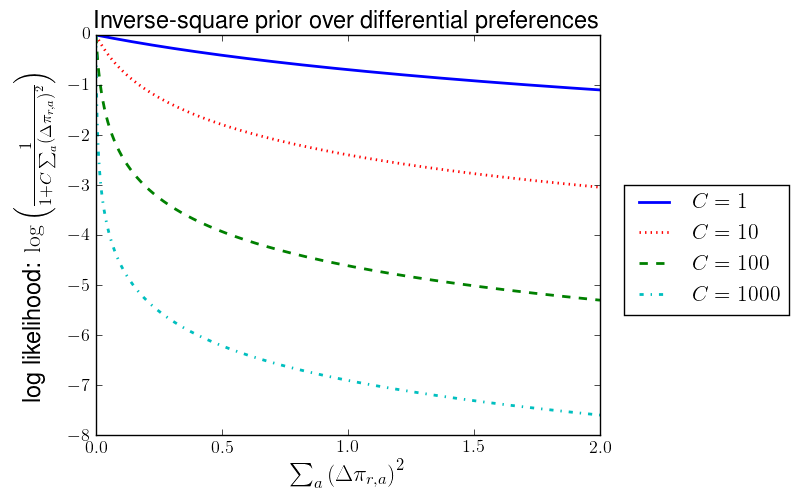
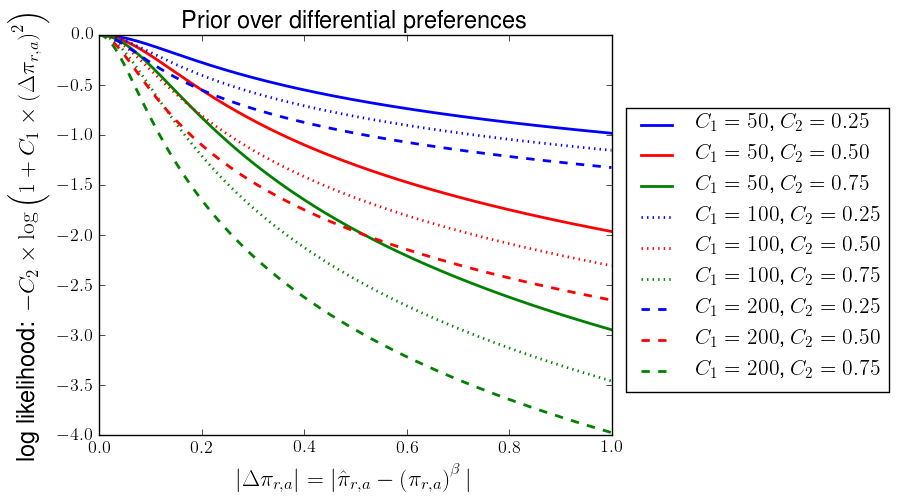
Implemented new diffprefs prior as product of inverse quadratics

diff --git a/phydmslib/diffpref.py b/phydmslib/diffpref.py
@@ -119,40 +119,33 @@ class InvQuadPrefsPrior(object):
 
     This object is instantiated like this::
 
-        prefsprior = InvQuadPrefsPrior(peakprefs, concentration)
+        prefsprior = InvQuadPrefsPrior(peakprefs, cparams)
 
     where *peakprefs* is a dictionary of the preferences that specifies
-    the peak of the prior, and *concentration* is a number > 1 that
-    specifies how "concentrated" the prior is (larger value means
-    more concentrated). 
+    the peak of the prior, and *cparams* is the tuple
+    *(c1, c2)* of numbers >= 0
+    that specify how "concentrated" the prior is (larger value means
+    more concentrated around *peakprefs*). 
     
     *tol* is the tolerance
     for having preferences not sum to one.
 
     The prior is defined as follows. Given some new vector with elements
     :math:`\hat{\pi}_{r,a}` and initial (*peakprefs*) values
-    of :math:`\pi_{r,a}`, the prior probability is
-    :math:`\Pr\left(\left\{\hat{\pi}_{r,a}\\right\} \mid \left\{\pi_{r,a}\\right\}\\right) = \log\left(\\frac{1}{1 + C \\times \sum_a \left(\hat{\pi}_{r,a} - \pi_{r,a}\\right)^2}\\right)`.
+    of :math:`\pi_{r,a}`, the log prior probability is
+    :math:`\log\left[\Pr\left(\left\{\hat{\pi}_{r,a}\\right\} \mid \left\{\pi_{r,a}\\right\}, \\beta\\right)\\right] = - C_2 \sum_a \log\left(1 + C_1 \\times \left(\hat{\pi}_{r,a} - \left(\pi_{r,a}\\right)^{\\beta}\\right)^2\\right)`.
 
     To return the log prior probability of any given set of preferences
     contained in a dictionary *prefs*, simply use::
 
         prior = prefsprior.LogPrior(prefs)
 
-    Here is an example:
-
-    >>> peakprefs = {'A':0.4, 'C':0.3, 'G':0.3, 'T':0.0}
-    >>> concentration = 100
-    >>> prefsprior = InvQuadPrefsPrior(peakprefs, concentration)
-    >>> prefs1 = {'A':0.39, 'C':0.3, 'G':0.3, 'T':0.01}
-    >>> prefs2 = {'A':0.09, 'C':0.3, 'G':0.3, 'T':0.31}
-    >>> prefsprior.LogPrior(prefs1) > prefsprior.LogPrior(prefs2)
-    True
     """
-    def __init__(self, peakprefs, concentration, tol=1e-6):
+    def __init__(self, peakprefs, cparams, tol=1e-6):
         """Initialize object."""
-        assert concentration >= 0, "concentration should be >= 0"
-        self.concentration = concentration
+        (self.c1, self.c2) = cparams
+        assert self.c1 >= 0, "c1 must be >= 0"
+        assert self.c2 >= 0, "c2 must be >= 0"
         assert tol < 1e4, "Unreasonably large tol: %s" % tol
         self.tol = tol
         assert abs(1.0 - sum(peakprefs.values())) < tol, "peakprefs do not sum to one:\n%s" % str(peakprefs)
@@ -166,7 +159,10 @@ class InvQuadPrefsPrior(object):
         assert abs(1.0 - sum(prefs.values())) < self.tol, "prefs do not sum to one:\n%s" % str(prefs)
         assert all([pi >= 0 for pi in prefs.values()]), "prefs not all >= 0: %s" % str(prefs)
         prefsvec = numpy.array([prefs[char] for char in self.chars])
-        return math.log(1.0 / (1.0 + self.concentration * sum((self.priorvec - prefsvec)**2)))
+        logp = 0.0
+        for (pi1, pi2) in zip(self.priorvec, prefsvec):
+            logp -= self.c2 * math.log(1.0 + self.c1 * (pi1 - pi2)**2)
+        return logp
 
 
 class DirichletPrefsPrior(object):
@@ -261,7 +257,9 @@ def OptimizePrefs(tl, prefs, site, prior, concentration, minvalue=1e-4, noprior=
 
     *concentration* is how strongly we concentrate the prior.
     Larger values lead to priors more strongly peaked on the initial
-    value of *site*.
+    value of *site*. Should be a value appropriate for passing to 
+    *InvQuadPrefsPrior* (if using *prior* of *invquad*) or to
+    *DirichletPrefsPrior* (if using *prior* of *dirichlet*).
     
     *minvalue* is a lower bound on the minimum valued allowed for the
     peak prior estimate for any preference and for any preference. 
@@ -317,13 +315,13 @@ def OptimizePrefs(tl, prefs, site, prior, concentration, minvalue=1e-4, noprior=
             iprefs = prefstovec.Prefs(vec)
             if any([pi <= 0 for pi in iprefs.values()]) or any([pi >= 1 for pi in iprefs.values()]):
                 raise RuntimeError("iprefs outside support:\n%s\n%s" % (str(iprefs), str(vec)))
-            if noprior:
+            if noprior and nologl:
+                raise ValueError("Can't use noprior and nologl")
+            elif noprior:
                 tl.SetPreferences(iprefs, site)
                 return -(tl.LogLikelihood())
             elif nologl:
                 return -(prefsprior.LogPrior(iprefs))
-            elif noprior and nologl:
-                raise ValueError("Can't use noprior and nologl")
             else:
                 tl.SetPreferences(iprefs, site)
                 return -(tl.LogLikelihood() + prefsprior.LogPrior(iprefs))

diff --git a/phydmslib/parsearguments.py b/phydmslib/parsearguments.py
@@ -61,6 +61,26 @@ def IntGreaterThanZero(n):
     else:
         return n
 
+def FloatGreaterThanEqualToZero(x):
+    """If *x* is a float >= 0, returns it, otherwise raises and error.
+
+    >>> print('%.1f' % FloatGreaterThanEqualToZero('1.5'))
+    1.5
+
+    >>> print('%.1f' % FloatGreaterThanEqualToZero('-1.1'))
+    Traceback (most recent call last):
+       ...
+    ArgumentTypeError: -1.1 not float greater than or equal to zero
+    """
+    try:
+        x = float(x)
+    except:
+        raise argparse.ArgumentTypeError("%r not float greater than or equal to zero" % x)
+    if x >= 0:
+        return x
+    else:
+        raise argparse.ArgumentTypeError("%r not float greater than or equal to zero" % x)
+
 
 def FloatGreaterThanOne(x):
     """If *x* is a string for a float > 1, returns it, otherwise an error."""
@@ -196,8 +216,7 @@ def PhyDMSComprehensiveParser():
     parser.add_argument('--no-diffprefsbysite', dest='nodiffprefsbysite', action='store_true', help="No fitting of differential preferences for ExpCM.")
     parser.set_defaults(omegabysite_fixsyn=False)
     parser.add_argument('--omegabysite_fixsyn', action='store_true', dest='omegabysite_fixsyn', help="See 'phydms' option of the same name.")
-    parser.add_argument('--diffprefsprior', default='invquad', choices=['invquad', 'dirichlet'], help="See 'phydms' option of the same name.")
-    parser.add_argument('--diffprefconc', help="Concentration parameter for fitting differential preferences. If not specified, defaults to default value of same param for 'phydms'.")
+    parser.add_argument('--diffprefconc', help="Parameters determining the concentration of the regularizing prior over the differential preferences. Defaults to value of same param for 'phydms'.")
     parser.set_defaults(randprefs=False)
     parser.add_argument('--randprefs', dest='randprefs', action='store_true', help="Include ExpCM models with randomized preferences.")
     parser.set_defaults(use_existing=False)
@@ -224,14 +243,16 @@ def PhyDMSParser():
     parser.add_argument('--ncpus', default=1, help='Use this many CPUs; -1 means all available.', type=int)
     parser.set_defaults(omegabysite_fixsyn=False)
     parser.add_argument('--omegabysite_fixsyn', dest='omegabysite_fixsyn', action='store_true', help="For '--omegabysite', assign all sites same synonymous rate rather than fitting a different one for each site.")
-    parser.add_argument('--diffprefsprior', default='invquad', choices=['invquad', 'dirichlet'], help="Prior on diff preferences for '--diffprefsbysite'.")
+    # comment out this option as the 'invquad' prior makes vastly more sense than 'dirichlet'
+    parser.set_defaults(diffprefsprior='invquad')
+    #parser.add_argument('--diffprefsprior', default='invquad', choices=['invquad', 'dirichlet'], help="Prior on diff preferences for '--diffprefsbysite'.")
     parser.set_defaults(randprefs=False)
     parser.add_argument('--randprefs', dest='randprefs', action='store_true', help="Randomize preferences among sites for ExpCM.")
     parser.set_defaults(avgprefs=False)
     parser.add_argument('--avgprefs', dest='avgprefs', action='store_true', help="Average preferences across sites for ExpCM.")
     parser.set_defaults(fixbrlen=False)
     parser.add_argument('--fixbrlen', dest='fixbrlen', action='store_true', help="Fix branch lengths to those of initial 'tree'. Consider using '--addrateparameter' too.")
-    parser.add_argument('--diffprefconc', default=100, help="Concentration parameter for '--diffprefsbysite'; larger values favor smaller diff prefs.", type=float)
+    parser.add_argument('--diffprefconc', help="Parameters determining the concentration of the regularizing prior over the differential preferences for '--diffprefsbysite'. Larger values favor smaller diff prefs.", type=FloatGreaterThanEqualToZero, nargs=2, metavar=('C1', 'C2'), default=[100, 0.5])
     parser.set_defaults(addrateparameter=False)
     parser.add_argument('--addrateparameter', dest='addrateparameter', action='store_true', help="Add parameter scaling substitution rate. Only allowed with '--fixbrlen'.")
     parser.set_defaults(fitF3X4=False)

diff --git a/docs/plot_diffprefs_prior.py b/docs/plot_diffprefs_prior.py
@@ -6,14 +6,14 @@ import matplotlib
 matplotlib.use('pdf')
 import matplotlib.pyplot as plt
 
-def F(x, c):
-    return math.log(1.0 / (1.0 + c * x))
+def F(x, c1, c2):
+    return -c2 * math.log(1.0 + c1 * x**2)
 
 plotfile = 'diffprefs_prior_plot.png'
 
 plt.rc('text', usetex=True)
 plt.rc('font', size=13)
-xmax = 2
+xmax = 1
 x = 0
 xs = [x]
 while x <= xmax:
@@ -21,21 +21,22 @@ while x <= xmax:
     x += 0.001
 labels = []
 handles = []
-plt.figure(figsize=(8, 5))
-lmargin = 0.12
-rmargin = 0.25
+plt.figure(figsize=(9, 5))
+lmargin = 0.11
+rmargin = 0.32
 bmargin = 0.13
 tmargin = 0.07
 plt.axes([lmargin, bmargin, 1.0 - lmargin - rmargin, 1.0 - tmargin - bmargin])
-for (c, color, ls) in zip([1, 10, 100, 1000], ['b', 'r', 'g', 'c'], ['-', ':', '--', '-.']):
-        ys = [F(x, c) for x in xs]
-        label = '$C = %d$' % c
+for (c1, ls) in zip([50, 100, 200], ['-', ':', '--']):
+    for (c2, color) in zip([0.25, 0.5, 0.75], ['b', 'r', 'g', 'y']):
+        ys = [F(x, c1, c2) for x in xs]
+        label = '$C_1 = %d$, $C_2 = %.2f$' % (c1, c2)
         labels.append(label)
         handle = plt.plot(xs, ys, label=label, ls=ls, color=color, lw=2)
         handles.append(handle[0])
-plt.ylabel('log likelihood: $\log \left(\\frac{1}{1 + C \sum_a \left(\Delta\pi_{r,a}\\right)^2}\\right)$', size=17)
-plt.xlabel('$\sum_a \left(\Delta\pi_{r,a}\\right)^2$', size=17)
-plt.title('Inverse-square prior over differential preferences', size=17)
+plt.ylabel('log likelihood: $-C_2 \\times \log \left(1 + C_1 \\times \left(\Delta\pi_{r,a}\\right)^2\\right)$', size=17)
+plt.xlabel('$|\Delta\pi_{r,a}| = |\hat{\pi}_{r,a} - \left(\pi_{r,a}\\right)^{\\beta}|$', size=17)
+plt.title('Prior over differential preferences', size=17)
 plt.figlegend(handles, labels, loc='center right')
 plt.show()
 

diff --git a/docs/ExpCM.rst b/docs/ExpCM.rst
@@ -161,40 +161,33 @@ To identify differential selection, we first fix the tree / branch lengths and a
 
 Simply fitting the model defined above with these 19 :math:`\hat{\pi}_{r,a}` values will probably overfit the data since we are including 19 new parameters. We therefore regularize the parameters by defining a prior that favors :math:`\hat{\pi}_{r,a} = \left(\pi_{r,a}\right)^{\beta}`. 
 
-``phydms`` currently implements two different priors; you can select which one you want using the ``--diffprefsprior`` option.
+Although a Dirichlet prior peaked on the preferences might seem attractive, it performs poorly in practice because the *maximum a posteriori* is very different for small preferences depending on their exact magnitude -- for instance, under a Dirichlet prior we will have very different costs of increasing the differential preference by 0.1 depending on whether the *a priori* peak estimate is :math:`10^{-3}` or :math:`10^{-4}`. This is undesirable, so instead we use a prior based on the product of inverse-quadratics.
 
-These priors are:
+.. math::
+   :label: Pr_pi_invquad
 
-    * An **inverse quadratic** prior (selected by passing ``invquad`` to ``--diffprefsprior``). This prior is defined as
+   \Pr\left(\left\{\hat{\pi}_{r,a}\right\} \mid \left\{\pi_{r,a}\right\}, \beta\right) = \prod_a \left(\frac{1}{1 + C_1 \times \left(\hat{\pi}_{r,a} - \left(\pi_{r,a}\right)^{\beta}\right)^2}\right)^{C_2}
 
-      .. math::
-         :label: Pr_pi_invquad
+or equivalently
 
-         \Pr\left(\left\{\hat{\pi}_{r,a}\right\} \mid \left\{\pi_{r,a}\right\}, \beta\right) = \log\left(\frac{1}{1 + C \times \sum_a \left(\hat{\pi}_{r,a} - \left(\pi_{r,a}\right)^{\beta}\right)^2}\right)
+.. math::
+   :label: log_Pr_pi_invquad
+    
+   \log\left[\Pr\left(\left\{\hat{\pi}_{r,a}\right\} \mid \left\{\pi_{r,a}\right\}, \beta\right)\right] = - C_2 \sum_a \log\left(1 + C_1 \times \left(\hat{\pi}_{r,a} - \left(\pi_{r,a}\right)^{\beta}\right)^2\right)
 
-      where `C` is a concentration parameter specified via the ``--diffprefconc`` option. A larger :math:`C` favors :math:`\hat{\pi}_{r,a}` values that more closely match the :math:`\left(\pi_{r,a}\right)^{\beta}` values.
+where :math:`C_1` and :math:`C_2` are concentration parameters specified via the ``--diffprefconc`` option. Larger values of these favor :math:`\hat{\pi}_{r,a}` values that more closely match the :math:`\left(\pi_{r,a}\right)^{\beta}` values (and so favor smaller values of :math:`\Delta\pi_{r,a} = \hat{\pi}_{r,a} - \left(\pi_{r,a}\right)^{\beta}`). 
 
-      Here is a plot of the log of this prior versus the total differential preference
+The ``phydms`` program has reasonable defaults for these concentration parameters, but you can fine tune them with ``--diffprefconc``.
 
-      .. image:: diffprefs_prior_plot.png
-         :align: center
-         :width: 60%
+Here is a plot of the log prior (Equation :eq:`log_Pr_pi_invquad`) as a function of :math:`C_1` and :math:`C_2`.
 
-      As the plot makes clear, this prior has the desirable feature of penalizing small differential preferences proportionally more than larger ones, which is good if we think that most sites have no differential selection but some have a lot. In addition, relative the **Dirichlet** prior it is much less biased towards inferring large differential preferences for amino acids that already have large preferences.
+.. image:: diffprefs_prior_plot.png
+   :align: center
+   :width: 60%
 
+As the plot makes clear, this prior has the desirable feature of penalizing small differential preferences proportionally more than larger ones, which is good if we think that most sites have no differential selection but some have a lot. 
 
-    * A **Dirichlet** prior (selected by passing ``dirichlet`` to ``--diffprefsprior``). This prior is a Dirichlet that has as its mode the :math:`\left(\pi_{r,a}\right)^{\beta}` values:
-
-      .. math::
-         :label: Pr_pi_dirichlet
-
-         \Pr\left(\left\{\hat{\pi}_{r,a}\right\} \mid \left\{\pi_{r,a}\right\}, \beta\right) = \operatorname{Dirichlet}\left(\left\{\hat{\pi}_{r,a}\right\} \mid \left\{\left(C - 1\right) \times N_a \times \left(\pi_{r,a}\right)^{\beta} + 1\right\}\right)
-
-      where :math:`N_a` is the number of amino acids (e.g. 20) and :math:`C > 1` is a concentration parameter specified via the ``--diffprefconc`` option to ``phydms``. A larger :math:`C` favors :math:`\hat{\pi}_{r,a}` values that more closely match the :math:`\left(\pi_{r,a}\right)^{\beta}` values. 
-
-      The possible downside of this prior (and the reason that the **inverse quadratic** prior may be a better choice) is that the cost of having a differential preference is highly dependent on the original preference at that site, which can mean that if an amino acid is highly disfavored in the experiments it may be hard to ever optimize a substantial differential preferences even if the residue is occurring in nature. In addition, the cost increases fairly quickly as the differential preferences get larger, meaning you're more likely to end up with lots of small ones rather than one large one.
-
-To obtain the :math:`\hat{\pi}_{r,a}` values, the ``--diffprefsbysite`` option to ``phydms`` jointly optimizes the product of the prior in Equation :eq:`Pr_pi_invquad` or :eq:`Pr_pi_dirichlet` and the likelihood (with fixed tree / branches and other model parameters) using Equation :eq:`Frxy_diffprefs`. In effect, this is the *maximum a posteriori* estimate of the :math:`\hat{\pi}_{r,a}` given the prior defined by Equation :eq:`Pr_pi_invquad` or :eq:`Pr_pi_dirichlet`.
+To obtain the :math:`\hat{\pi}_{r,a}` values, the ``--diffprefsbysite`` option to ``phydms`` jointly optimizes the product of the prior in Equation :eq:`Pr_pi_invquad` and the likelihood (with fixed tree / branches and other model parameters) using Equation :eq:`Frxy_diffprefs`. In effect, this is the *maximum a posteriori* estimate of the :math:`\hat{\pi}_{r,a}` given the prior defined by Equation :eq:`Pr_pi_invquad`.
 
 One might wonder why ``phydms`` takes the *maximum a posteriori* estimates rather than defining a prior with :math:`\left(\pi_{r,a}\right)^{\beta}` as the *mean* rather than the *mode*, and then sampling from the posterior to obtain the posterior mean estimates. In fact, this procedure would probably be better, but MCMC sampling of the posterior is much more computationally intensive than the *maximum a posteriori* approach.
 

diff --git a/docs/phydms_prog.rst b/docs/phydms_prog.rst
@@ -8,7 +8,7 @@ The ``phydms`` program
 
 Overview
 ------------
-``phydms`` can be used to perform phylogenetic analyses with :ref:`ExpCM` as well as with some standard non-site-specific substitution models (variants of the *YNGKP* models described in `Yang, Nielsen, Goldman, and Krabbe Pederson, Genetics, 155:431-449`_). In addition, ``phydms`` can be used to detect site-specific diversifying or differential selection using the :ref:`ExpCM`.
+``phydms`` can perform phylogenetic analyses with :ref:`ExpCM` as well as with some standard non-site-specific substitution models (variants of the *YNGKP* models described in `Yang, Nielsen, Goldman, and Krabbe Pederson, Genetics, 155:431-449`_). In addition, ``phydms`` can be used to detect site-specific diversifying or differential selection using the :ref:`ExpCM`.
 
 ``phydms`` is written in `Python`_, and uses the `Bio++`_ libraries to perform the core likelihood functions. See below for information on the `Command-line usage`_ and `Output files`_.
 
@@ -71,14 +71,7 @@ Command-line usage
     Only for *ExpCM* models. This option computes an average of each preference across sites (:math:`\pi_a = \frac{1}{L} \sum_r \pi_{r,a}` where :math:`r = 1, \ldots, L`), and then uses these average preferences for all sites. This can be used as a control, as it merges all the information in the preferences into a non-site-specific model.
 
    \-\-diffprefconc
-    This is the concentration parameter :math:`C` over the regularizing prior for the differential preferences. The default value is :math:`\sim 100` and is appropriate for a ``--diffprefsprior`` of ``invquad``. If you instead use ``--diffprefsprior`` of ``dirichlet``, you should use a much smaller value :math:`\sim 2`.
-
-    When ``--diffprefsprior`` is ``invquad``, the value must be :math:`\ge 0`. When ``--diffprefsprior`` is ``dirichlet``, the value must be :math:`> 1`.
-    
-    This option is only relevant for *ExpCM* models; see :ref:`ExpCM` for more information.
-
-   \-\-diffprefsprior
-    See :ref:`ExpCM` for a detailed definition of the different options for the prior. 
+    This option specifies the parameters :math:`C_1` and :math:`C_2` that determine the concentration of the prior that regularizes the differential preferences inferred by ``--diffprefsbysite``. Both these parameters must be > 0; larger values favor smaller differential preferences. See :ref:`ExpCM` for more information on the exact meaning of these parameters.
 
    \-\-addrateparameter
     It only makes sense to use this parameter if you have fixed all branch lengths and then wish to fit a rate that effectively scales these branch lengths.
